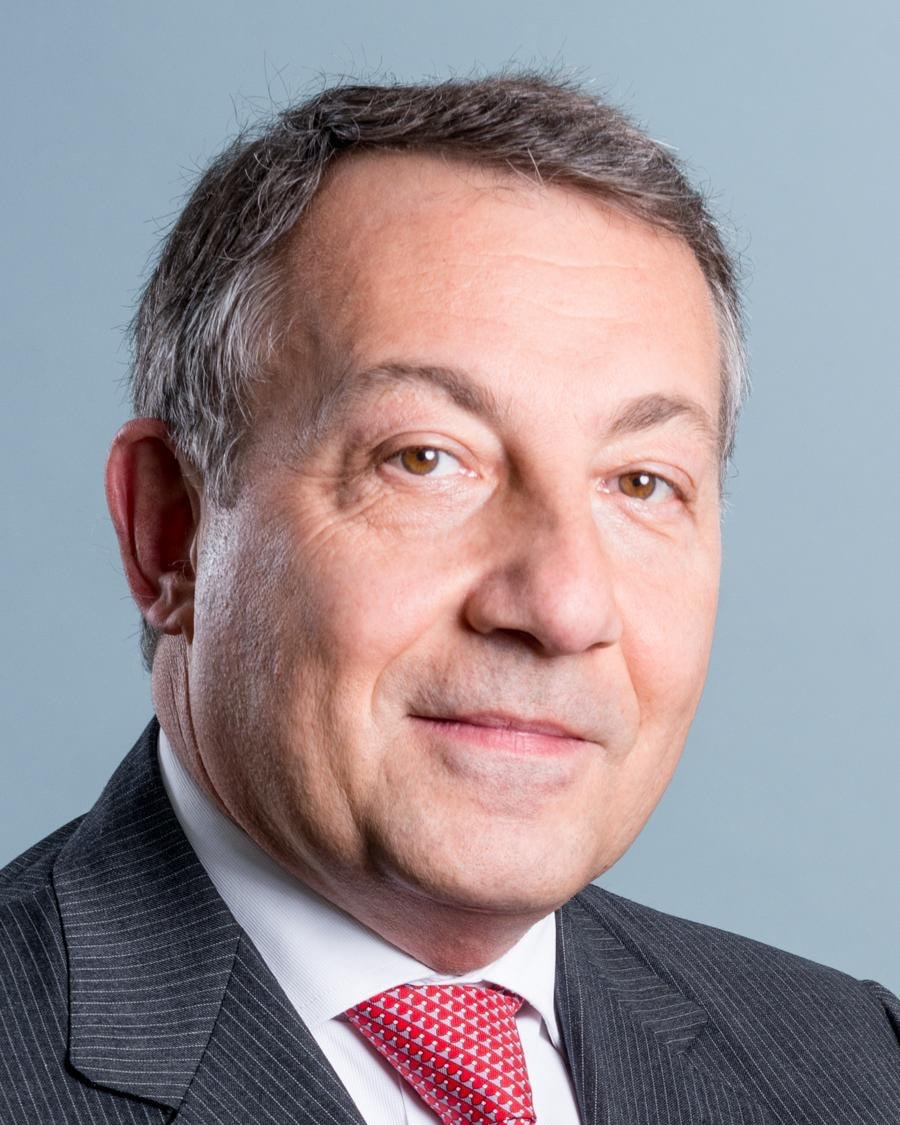
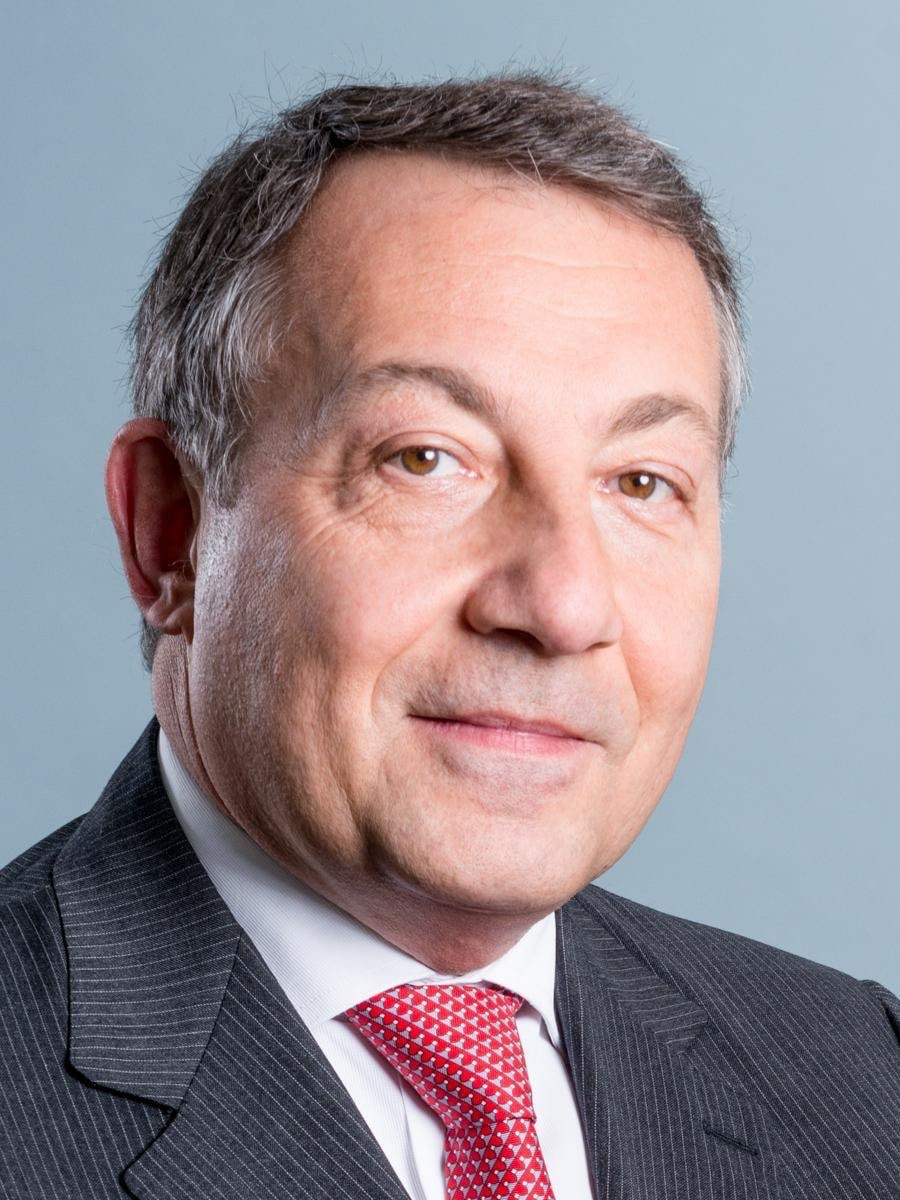
feat: Match the partner portraits and stagger the card's details in
PORTRAITS. The media box moves from 4/3 landscape to 3/4 portrait. Both
photographs are vertical, and forcing a vertical portrait through a
landscape hole leaves almost nothing but face - which is why Dimanow read
as over-zoomed. The framing was the photographer's; the hole was ours.

Dimanow is now his full uncropped 900x1200 frame, the most zoomed-out
view of him that exists. Fiuza is re-cropped to 325x433, the largest 3/4
his frame allows, which uses his full source width and so costs no
resolution. The crop was chosen by comparing rendered candidates against
Dimanow, not by arithmetic: tighter crops put his head visibly larger
than his partner's, which was the thing being fixed.

The box is capped at 300px and inset rather than full-bleed. A full-width
3/4 portrait runs past 700px tall and swamps the biography, and Fiuza's
master is only 325px wide so a wider slot asks for resolution his file
does not have.

STAGGER. Each piece of the card now arrives in turn as the modal opens -
seal, wordmark, name, role, each contact row, QR, website - settling at
about 1.0s. No JavaScript: the modal only mounts when opened.

Focus cancels the animation for the item it lands on, so a keyboard user
who opens the card and tabs straight in never gets a focus ring drawn
around something still invisible. Same reasoning as is-instant.

diff --git a/src/components/VCard/VCard.css b/src/components/VCard/VCard.css
@@ -266,3 +266,76 @@ a.vcard__row:hover .vcard__value { color: var(--vc-gold); }
 /* Colour change only on hover — no movement — so there is nothing here for
    `prefers-reduced-motion` to switch off. If a transform or animation is ever
    added, give it a guard beside the rule, per the convention in index.css. */
+
+/* ---- Staggered entrance (ASP-41) ----
+ *
+ * Each piece of the card arrives in turn as the modal opens. No JavaScript:
+ * the modal only mounts when it is opened, so these animations run on mount.
+ *
+ * Opacity and a few pixels of travel ONLY. Animating height or margin here
+ * would resize the card mid-sequence and shove the modal panel around while
+ * it is still sliding in.
+ *
+ * The rows are listed individually rather than animated as a block, because
+ * the point is that each line of contact detail lands on its own.
+ */
+@keyframes vcardIn {
+  from { opacity: 0; transform: translateY(8px); }
+  to   { opacity: 1; transform: none; }
+}
+
+.vcard__inner > *,
+.vcard__rows > * {
+  animation: vcardIn 380ms var(--e-out) both;
+}
+
+/* The rows container must not animate as well, or its children inherit a
+   parent that is still fading and the whole group reads as one item. */
+.vcard__rows { animation: none; opacity: 1; }
+
+.vcard__seal      { animation-delay: 40ms; }
+.vcard__wordmark  { animation-delay: 110ms; }
+.vcard__suffix    { animation-delay: 170ms; }
+.vcard__divider   { animation-delay: 230ms; }
+.vcard__name      { animation-delay: 290ms; }
+.vcard__role      { animation-delay: 350ms; }
+
+.vcard__rows > *:nth-child(1) { animation-delay: 420ms; }
+.vcard__rows > *:nth-child(2) { animation-delay: 480ms; }
+.vcard__rows > *:nth-child(3) { animation-delay: 540ms; }
+.vcard__rows > *:nth-child(4) { animation-delay: 600ms; }
+
+/* The QR last but one, and the website after it. 660 + 380 = 1040ms, so the
+   whole card has settled inside about a second — someone who deliberately
+   opened a business card should not be kept waiting for a phone number. */
+.vcard__qrblock { animation-delay: 660ms; }
+.vcard__site    { animation-delay: 720ms; }
+
+@media (prefers-reduced-motion: reduce) {
+  /* One plain fade for the whole card: no travel, no per-item delay. The
+     pieces still appear, they just stop arriving in procession. Softened,
+     not switched off, per the rule in index.css. */
+  .vcard__inner > *,
+  .vcard__rows > * {
+    animation: none;
+  }
+  .vcard__inner {
+    animation: vcardFade 220ms var(--e-out) both;
+  }
+  @keyframes vcardFade {
+    from { opacity: 0; }
+    to   { opacity: 1; }
+  }
+}
+
+/* A keyboard user who opens the card and tabs straight in must not land on a
+   link that has not faded up yet — the focus ring would be drawn around
+   nothing. Focus cancels the animation outright for that item.
+   Same reasoning as `is-instant` in index.css: arriving by keyboard means it
+   should already be there. */
+.vcard__rows > *:focus,
+.vcard__rows > *:focus-visible,
+.vcard__rows > *:focus-within {
+  animation: none;
+  opacity: 1;
+}

diff --git a/src/pages/Team.css b/src/pages/Team.css
@@ -40,10 +40,24 @@
    photographs are framed quite differently — one studio, one cut-out — and
    without this the cards would sit at different heights and the heads would
    land at different levels. */
+/* 3/4 PORTRAIT, not 4/3 landscape (ASP-42).
+   Both supplied photographs are vertical, and forcing a vertical portrait
+   through a landscape hole leaves almost nothing but face — which is why
+   Dimanow read as over-zoomed. The framing was the photographer's; the hole
+   was ours.
+
+   Capped and inset rather than full-bleed, for two reasons: a full-width 3/4
+   portrait on a 560px card runs past 700px tall and swamps the biography,
+   and Fiuza's master is only 325px wide, so a slot wider than this is asking
+   for resolution his file does not have. */
 .team-person__media {
   position: relative;
   overflow: hidden;
-  aspect-ratio: 4 / 3;
+  aspect-ratio: 3 / 4;
+  width: 100%;
+  max-width: 300px;
+  margin: var(--s-5) auto 0;
+  border-radius: var(--radius);
   background: var(--c-navy-lift);
 }
 
@@ -105,7 +119,9 @@
 @media (max-width: 560px) {
   /* A 4/3 portrait at full phone width is most of the screen before the
      reading starts. */
-  .team-person__media { aspect-ratio: 3 / 2; }
+  /* Still portrait on a phone, just smaller — a landscape crop here would
+     reintroduce exactly the close-up this ticket removed. */
+  .team-person__media { max-width: 230px; }
 }
 
 /* ---- Digital card trigger (ASP-39) ----

diff --git a/src/pages/Team.jsx b/src/pages/Team.jsx
@@ -124,7 +124,7 @@ function Portrait({ slug, name, role }) {
   const fallback = meta.widths[meta.widths.length - 1]
   /* The card is wider now that the portrait sits above the text rather than
      beside it, so this asks for a bigger file than the Contact version did. */
-  const sizes = '(max-width: 560px) calc(100vw - 3rem), 420px'
+  const sizes = '(max-width: 560px) 230px, 300px'
 
   return (
     <picture>
